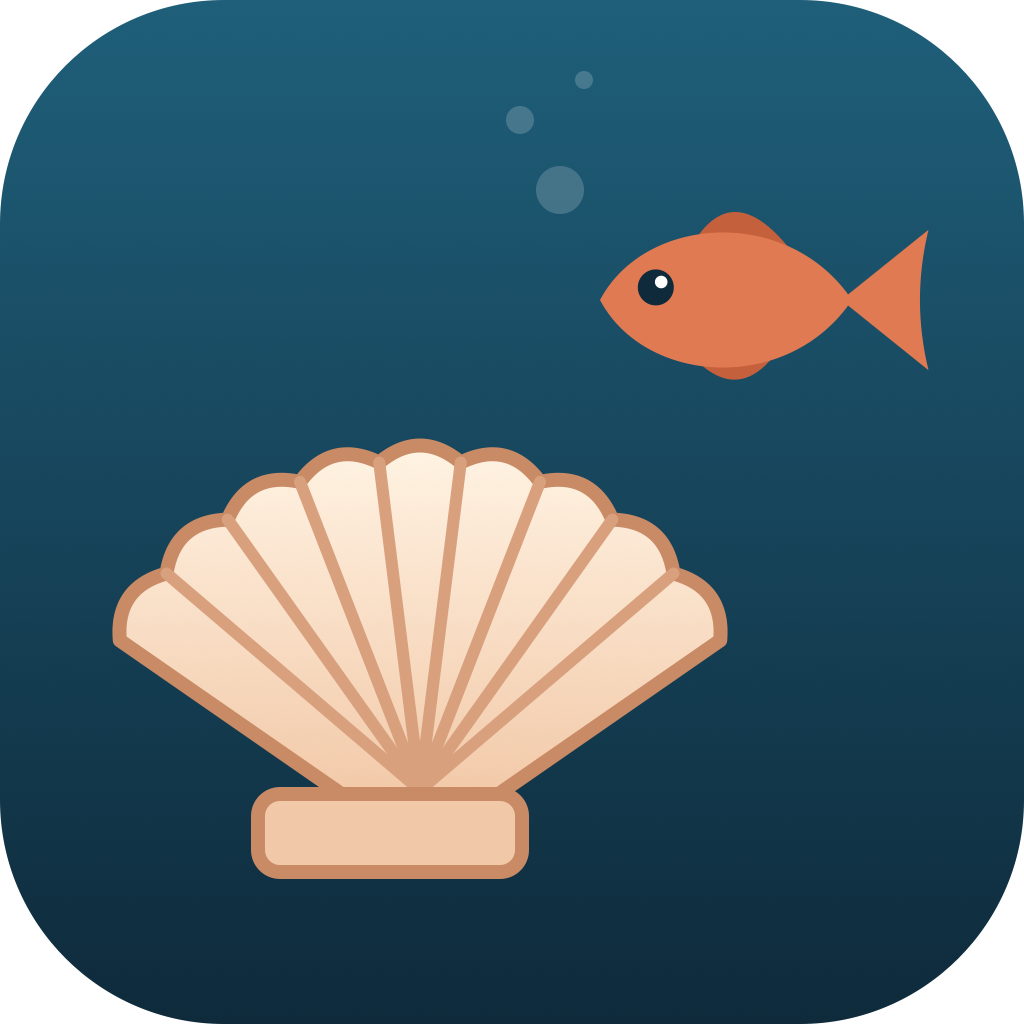
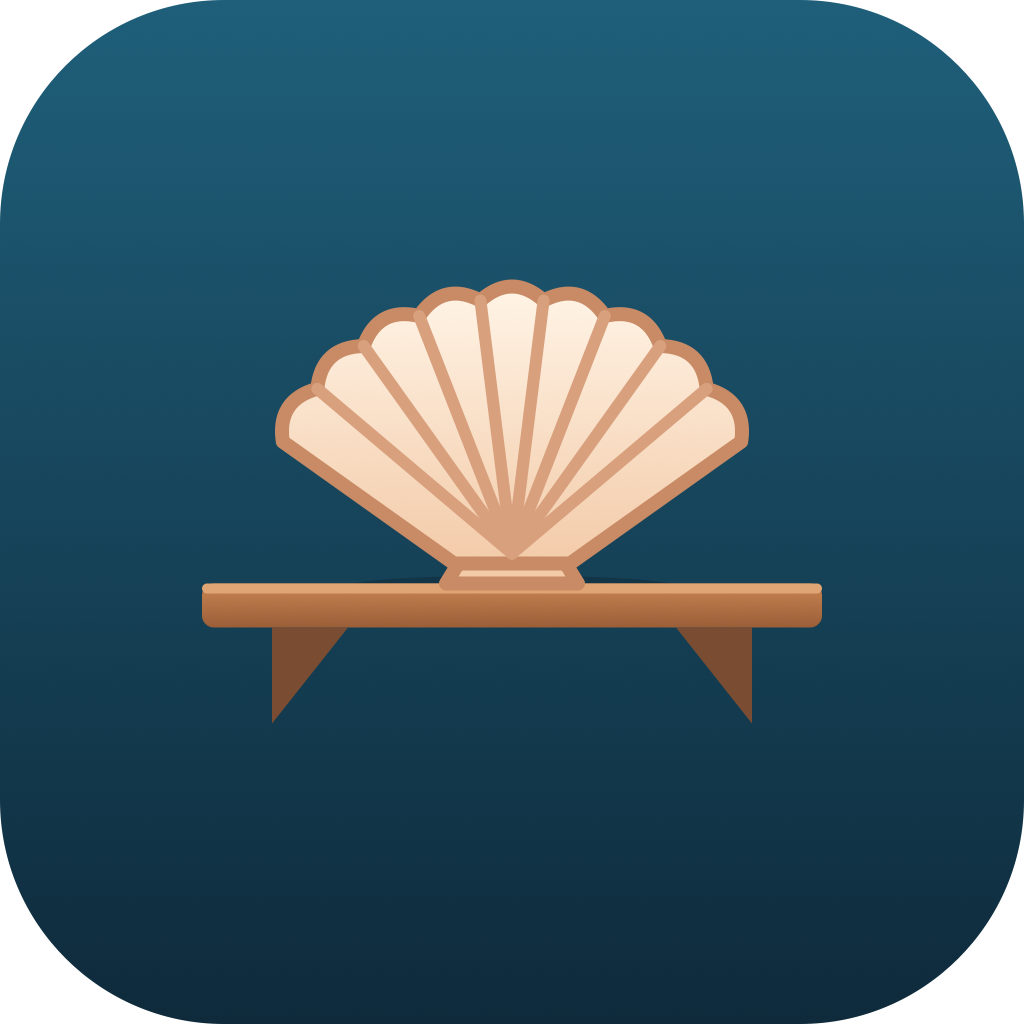
claude: put shellfish's shell on a shelf and tidy its descriptions
The icon is now a single scallop on a wall shelf, sized as one centred group. The plugin description says what the mod does instead of listing parts, and /shelf's description covers everything the shelf shows.

diff --git a/claude/.claude/mods/shellfish/hooks/register.tsx b/claude/.claude/mods/shellfish/hooks/register.tsx
@@ -306,7 +306,7 @@ export const register: Register = on => {
       description: 'Show, set, or clear the shellfish session summary',
       argumentHint: '[text|clear]',
     })
-    await $.command.register({ name: 'shelf', description: 'Open or close the shellfish shelf: subagents and turn history' })
+    await $.command.register({ name: 'shelf', description: 'Open or close the shellfish shelf: agents, context, cost, limits and cache' })
     await $.command.register({
       name: 'keepalive',
       description: 'Keep the prompt cache warm while idle, for N minutes (default 180); "off" stops it',
